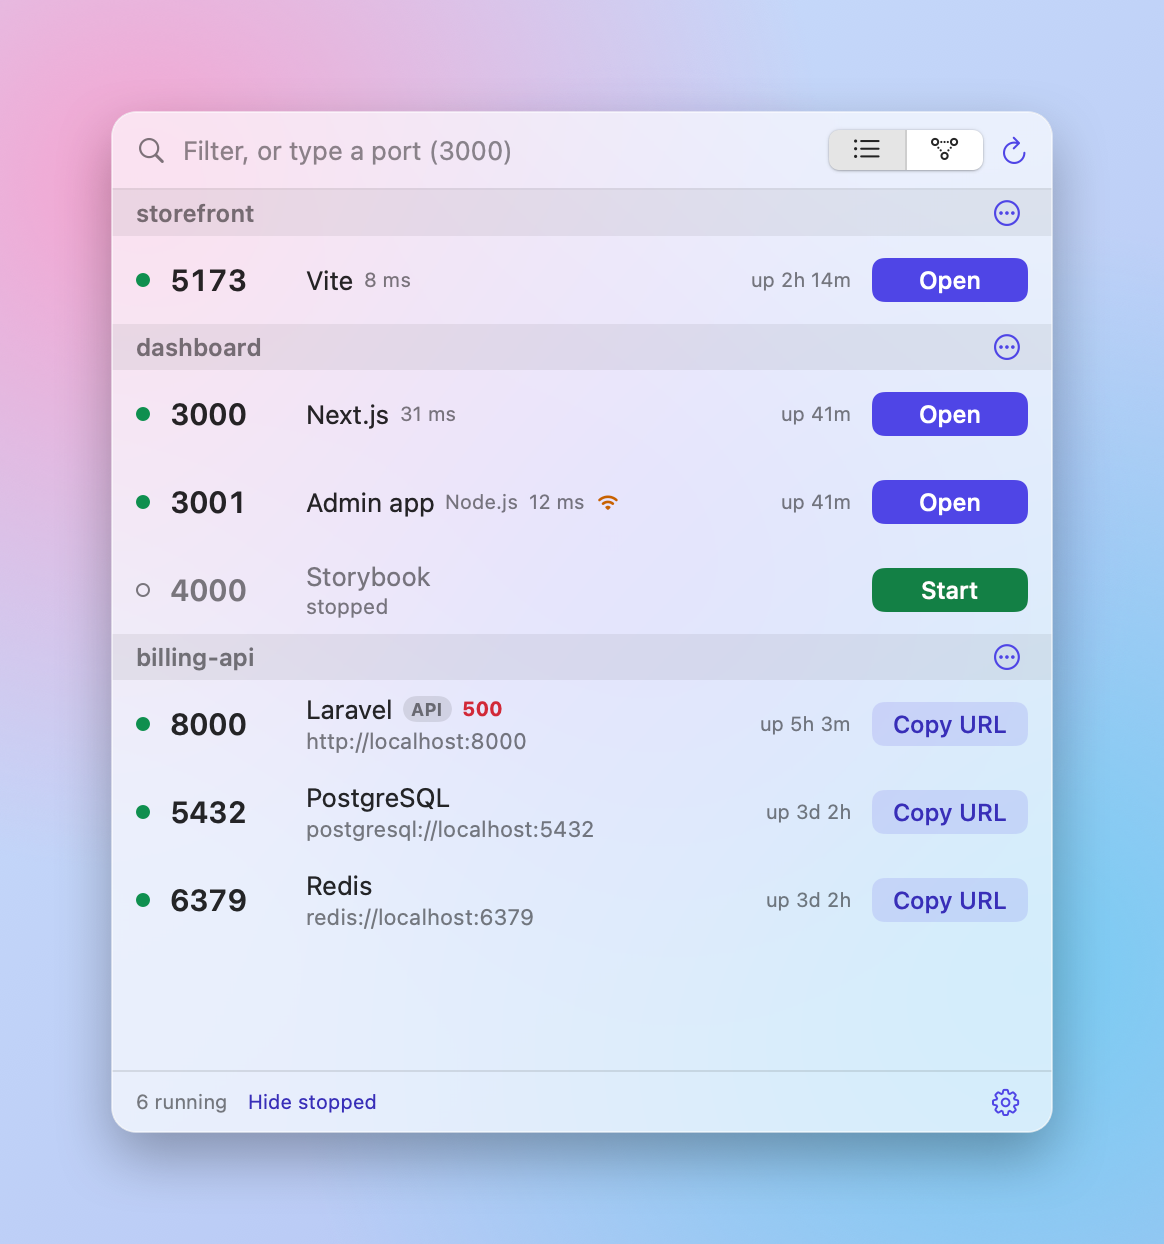
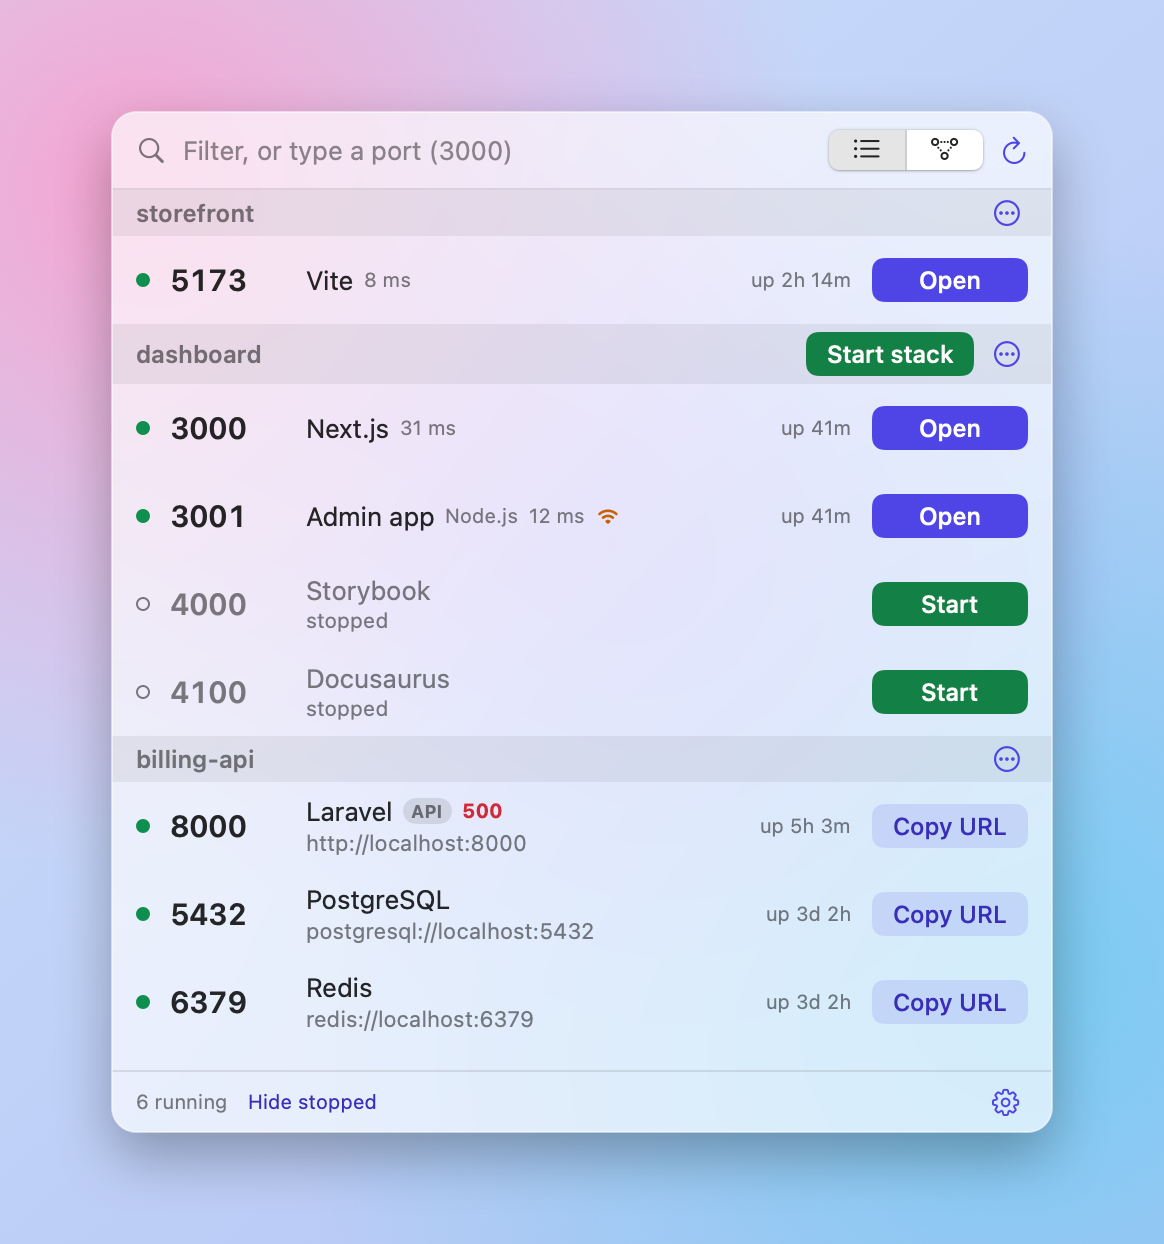
Start stack: bring a project back in dependency order, learning the links while it runs

diff --git a/Sources/Switchboard/Store.swift b/Sources/Switchboard/Store.swift
@@ -25,6 +25,7 @@ final class Store: ObservableObject {
     @Published private(set) var tip: String?   // what the hovered icon does, shown in the footer
     @Published private(set) var recent: Set<String> = []   // servers that just appeared
     private var knownRunningKeys: Set<String>?
+    private var refreshTick = 0
     @Published var armedKill: String?
     @Published private(set) var names: [String: String] = [:]
     @Published private(set) var pinned: Set<String> = []
@@ -137,7 +138,12 @@ final class Store: ObservableObject {
         let result = await Task.detached(priority: .utility) { Scanner.scan() }.value
         if result != entries { withAnimation(Motion.anim) { entries = result } }
         guard persistent else { return }
-        if showMap { stack = await Task.detached(priority: .utility) { Scanner.stack(entries: result) }.value }
+        refreshTick += 1
+        if showMap || (refreshTick % 5 == 0 && result.filter({ $0.kind != .other }).count >= 2) {
+            let map = await Task.detached(priority: .utility) { Scanner.stack(entries: result) }.value
+            if showMap { stack = map }
+            learn(map)
+        }
         markNew(result)
         remember(result)
         detectStops(result)
@@ -155,6 +161,19 @@ final class Store: ObservableObject {
         Task { try? await Task.sleep(for: .seconds(2)); withAnimation(Motion.anim) { recent.subtract(fresh) } }
     }
 
+    /// Remember who was seen using whom, so the right start order is known later when everything is down.
+    private func learn(_ map: StackMap) {
+        for e in map.edges where !e.broken && (e.count > 0 || e.configured) {
+            guard var from = known[e.from], known[e.to] != nil else { continue }
+            var uses = Set(from.uses ?? [])
+            if uses.insert(e.to).inserted {
+                from.uses = uses.sorted()
+                known[e.from] = from
+                dirty = true
+            }
+        }
+    }
+
     private func remember(_ list: [PortEntry]) {
         let now = Date()
         let runningKeys = Set(list.map(\.key))
@@ -162,7 +181,7 @@ final class Store: ObservableObject {
         for e in list where e.kind == .dev || e.kind == .docker {
             let k = KnownServer(key: e.key, port: e.port, title: e.title, group: e.group, projectPath: e.projectPath,
                                 start: e.restart.map { KnownStart(exec: $0.exec, argv: $0.argv, cwd: $0.cwd) },
-                                containerID: e.container?.id, lastSeen: now)
+                                containerID: e.container?.id, lastSeen: now, uses: known[e.key]?.uses)
             var old = known[e.key]
             old?.lastSeen = now
             if old != k { dirty = true }
@@ -423,10 +442,23 @@ final class Store: ObservableObject {
         }
     }
 
+    /// Start everything that is stopped in this project, dependencies first, waiting for each tier to come up.
     func startAll(_ g: ProjectGroup) {
-        let targets = g.stopped.filter(\.canStart)
-        guard !targets.isEmpty else { return }
-        for k in targets { start(k) }
+        let startable = g.stopped.filter(\.canStart)
+        guard !startable.isEmpty else { return }
+        let levels = StartPlan.levels(startable: startable, pool: stopped)
+        let plan = StartPlan.describe(levels)
+        flash(levels.count > 1 ? "Starting in order: \(plan)" : "Starting \(plan)…")
+        Task {
+            let failed = await StartPlan.run(levels) { key, text in Task { @MainActor in self.busy[key] = text } }
+            try? await Task.sleep(for: .milliseconds(400))
+            await refresh()
+            if let f = failed {
+                flash("\(f.title) :\(f.port) didn't come up within a minute, so nothing after it was started. Check ~/Library/Logs/Switchboard.")
+            } else {
+                flash(levels.count > 1 ? "Stack is up: \(plan)" : "\(plan) is up.")
+            }
+        }
     }
 
     func openProject(_ path: String, in app: URL) { Editors.open(path, with: app) }

diff --git a/Sources/Switchboard/StartPlan.swift b/Sources/Switchboard/StartPlan.swift
@@ -1,0 +1,61 @@
+import Foundation
+
+/// "Start my stack": start stopped servers in dependency order and wait for each tier to accept connections.
+enum StartPlan {
+    /// Tiers of servers. Everything in a tier can start together; a tier starts once the one before is up.
+    /// `pool` is every remembered server, so dependencies from other projects are pulled in when they are stopped too.
+    static func levels(startable: [KnownServer], pool: [KnownServer]) -> [[KnownServer]] {
+        let byKey = Dictionary(pool.map { ($0.key, $0) }, uniquingKeysWith: { a, _ in a })
+        var targets: [String: KnownServer] = [:]
+        func add(_ k: KnownServer) {
+            guard targets[k.key] == nil, k.canStart else { return }
+            targets[k.key] = k
+            for u in k.uses ?? [] { if let d = byKey[u] { add(d) } }   // only stopped ones are in the pool
+        }
+        startable.forEach(add)
+
+        var remaining = Set(targets.keys)
+        var out: [[KnownServer]] = []
+        while !remaining.isEmpty {
+            let ready = remaining.filter { key in (targets[key]!.uses ?? []).allSatisfy { !remaining.contains($0) } }
+            let tier = ready.isEmpty ? remaining : ready    // a cycle: start what is left together
+            out.append(tier.compactMap { targets[$0] }.sorted { $0.port < $1.port })
+            remaining.subtract(tier)
+        }
+        return out
+    }
+
+    static func describe(_ levels: [[KnownServer]]) -> String {
+        levels.map { $0.map { "\($0.title) :\($0.port)" }.joined(separator: " + ") }.joined(separator: " → ")
+    }
+
+    /// Runs the plan. `status(key, text)` reports progress per server (nil text clears it). Returns the server that never came up.
+    static func run(_ levels: [[KnownServer]], timeout: TimeInterval = 60, status: @escaping @Sendable (String, String?) -> Void) async -> KnownServer? {
+        for (i, tier) in levels.enumerated() {
+            let waiting = i == 0 ? "" : levels[i - 1].map { "\($0.title) :\($0.port)" }.joined(separator: ", ")
+            for later in levels.dropFirst(i + 1).flatMap({ $0 }) { status(later.key, "Waiting…") }
+            for k in tier { status(k.key, i == 0 ? "Starting…" : "Starting after \(waiting)…") }
+
+            for k in tier {
+                do { try await Actions.start(k) } catch {
+                    for t in tier { status(t.key, nil) }
+                    return k
+                }
+            }
+            var up = Set<Int>()
+            let deadline = Date().addingTimeInterval(timeout)
+            while Date() < deadline, up.count < tier.count {
+                for k in tier where !up.contains(k.port) {
+                    if await Task.detached(operation: { Probe.isListening(k.port) }).value { up.insert(k.port); status(k.key, nil) }
+                }
+                if up.count < tier.count { try? await Task.sleep(for: .milliseconds(500)) }
+            }
+            if let missing = tier.first(where: { !up.contains($0.port) }) {
+                for t in tier { status(t.key, nil) }
+                for later in levels.dropFirst(i + 1).flatMap({ $0 }) { status(later.key, nil) }
+                return missing
+            }
+        }
+        return nil
+    }
+}

diff --git a/Sources/Switchboard/main.swift b/Sources/Switchboard/main.swift
@@ -17,6 +17,34 @@ if let i = CommandLine.arguments.firstIndex(of: "--tip"), CommandLine.arguments.
     exit(0)
 }
 
+// Debug helpers: `Switchboard --plan <group>` prints the start order; `--act start-stack <group>` runs it.
+func loadKnown() -> [KnownServer] {
+    let url = FileManager.default.urls(for: .applicationSupportDirectory, in: .userDomainMask)[0].appendingPathComponent("Switchboard/state.json")
+    struct S: Codable { var known: [String: KnownServer] }
+    guard let data = try? Data(contentsOf: url), let st = try? JSONDecoder().decode(S.self, from: data) else { return [] }
+    let running = Set(Scanner.scan().map(\.key))
+    return st.known.values.filter { !running.contains($0.key) }
+}
+if let i = CommandLine.arguments.firstIndex(of: "--plan"), CommandLine.arguments.count > i + 1 {
+    let stopped = loadKnown()
+    let levels = StartPlan.levels(startable: stopped.filter { $0.group == CommandLine.arguments[i + 1] && $0.canStart }, pool: stopped)
+    for (n, tier) in levels.enumerated() { print("tier \(n + 1): " + tier.map { "\($0.title) :\($0.port) [\($0.group)]" }.joined(separator: ", ")) }
+    exit(0)
+}
+if let i = CommandLine.arguments.firstIndex(of: "--act"), CommandLine.arguments.count > i + 2, CommandLine.arguments[i + 1] == "start-stack" {
+    let stopped = loadKnown()
+    let levels = StartPlan.levels(startable: stopped.filter { $0.group == CommandLine.arguments[i + 2] && $0.canStart }, pool: stopped)
+    print("plan:", StartPlan.describe(levels))
+    let sem = DispatchSemaphore(value: 0)
+    Task.detached {
+        let failed = await StartPlan.run(levels) { key, text in if let text { print("  \(key.split(separator: "/").last ?? ""): \(text)") } }
+        print(failed.map { "FAILED: \($0.title) :\($0.port)" } ?? "all up")
+        sem.signal()
+    }
+    sem.wait()
+    exit(0)
+}
+
 // Debug helper: `Switchboard --stack` prints who talks to whom.
 if CommandLine.arguments.contains("--stack") {
     let m = Scanner.stack(entries: Scanner.scan())
@@ -102,7 +130,9 @@ if let i = CommandLine.arguments.firstIndex(of: "--screenshot"), CommandLine.arg
             edge("client:1", k("billing-api", 6379), 1),
             StackEdge(from: k("billing-api", 8000), to: "missing:9200", count: 0, hint: "ELASTIC_PORT in .env", configured: true, broken: true),
         ])
-        let store = Store(sample: list, stopped: [stoppedServer], names: ["/Users/dev/dashboard:3001": "Admin app"],
+        let docs = KnownServer(key: "/Users/dev/dashboard:4100", port: 4100, title: "Docusaurus", group: "dashboard",
+                               projectPath: "/Users/dev/dashboard", start: KnownStart(exec: "/usr/bin/true", argv: [], cwd: "/tmp"), containerID: nil, lastSeen: Date())
+        let store = Store(sample: list, stopped: [stoppedServer, docs], names: ["/Users/dev/dashboard:3001": "Admin app"],
                           pinned: [], stack: sampleStack, showMap: CommandLine.arguments.contains("map"))
         _ = NSApplication.shared
         Theme.flat = true

diff --git a/Sources/Switchboard/Views.swift b/Sources/Switchboard/Views.swift
@@ -266,6 +266,11 @@ struct GroupHeader: View {
             if group.name == "Pinned" { Image(systemName: "pin.fill").font(.system(size: 10)).foregroundStyle(.secondary) }
             Text(group.name).font(.system(size: 12, weight: .semibold)).foregroundStyle(.secondary)
             Spacer()
+            if startable > 1 {
+                Button("Start stack") { store.startAll(group) }
+                    .buttonStyle(PillButton(tone: .start, width: 84))
+                    .hoverTip("Start stack: start everything stopped here, in the order they depend on each other", tint: Brand.green)
+            }
             Menu {
                 if let path = group.path {
                     ForEach(Editors.installed, id: \.name) { ed in
@@ -275,7 +280,7 @@ struct GroupHeader: View {
                     Button("Show in Finder") { NSWorkspace.shared.open(URL(fileURLWithPath: path)) }
                     Divider()
                 }
-                if startable > 0 { Button("Start \(startable) stopped") { store.startAll(group) } }
+                if startable > 0 { Button(startable > 1 ? "Start stack in order (\(startable))" : "Start 1 stopped") { store.startAll(group) } }
                 if restartable > 0 { Button("Restart \(restartable) running") { store.restartAll(group) } }
                 if stoppable > 0 { Button("Stop all \(stoppable)…") { store.stopAll(group) } }
             } label: {

diff --git a/Sources/Switchboard/Probe.swift b/Sources/Switchboard/Probe.swift
@@ -28,6 +28,12 @@ enum Probe {
         return r
     }
 
+    /// True if something accepts connections on this port (any protocol).
+    static func isListening(_ port: Int) -> Bool {
+        for v6 in [false, true] { if let fd = connectLoopback(port: port, v6: v6) { close(fd); return true } }
+        return false
+    }
+
     private static func request(port: Int, host: String) -> ProbeResult {
         let order = host.contains("::1") ? [true, false] : [false, true]
         for v6 in order {

diff --git a/Sources/Switchboard/Models.swift b/Sources/Switchboard/Models.swift
@@ -82,6 +82,7 @@ struct KnownServer: Codable, Hashable, Identifiable {
     var start: KnownStart?
     var containerID: String?
     var lastSeen: Date
+    var uses: [String]? = nil   // servers this one was seen talking to; decides the start order
     var id: String { key }
     var canStart: Bool { start != nil || containerID != nil }
 }

diff --git a/README.md b/README.md
@@ -18,7 +18,7 @@ A Mac menu bar app that shows every port you have open, with the project it belo
 - **Grouped by project.** Vite, Next.js, Laravel, Django, Docker, Postgres, Redis and more.
 - **The right button for each server.** Open for web pages, Copy URL for APIs and databases.
 - **See how your servers connect.** The map shows which server talks to which, and warns before you stop something others depend on.
-- **Servers you stopped stay listed** with a Start button.
+- **Servers you stopped stay listed.** One click starts a whole project again, in the order its servers depend on each other.
 - **Port checker.** Type `3000` to see if it is free and who has it.
 
 ## Install
